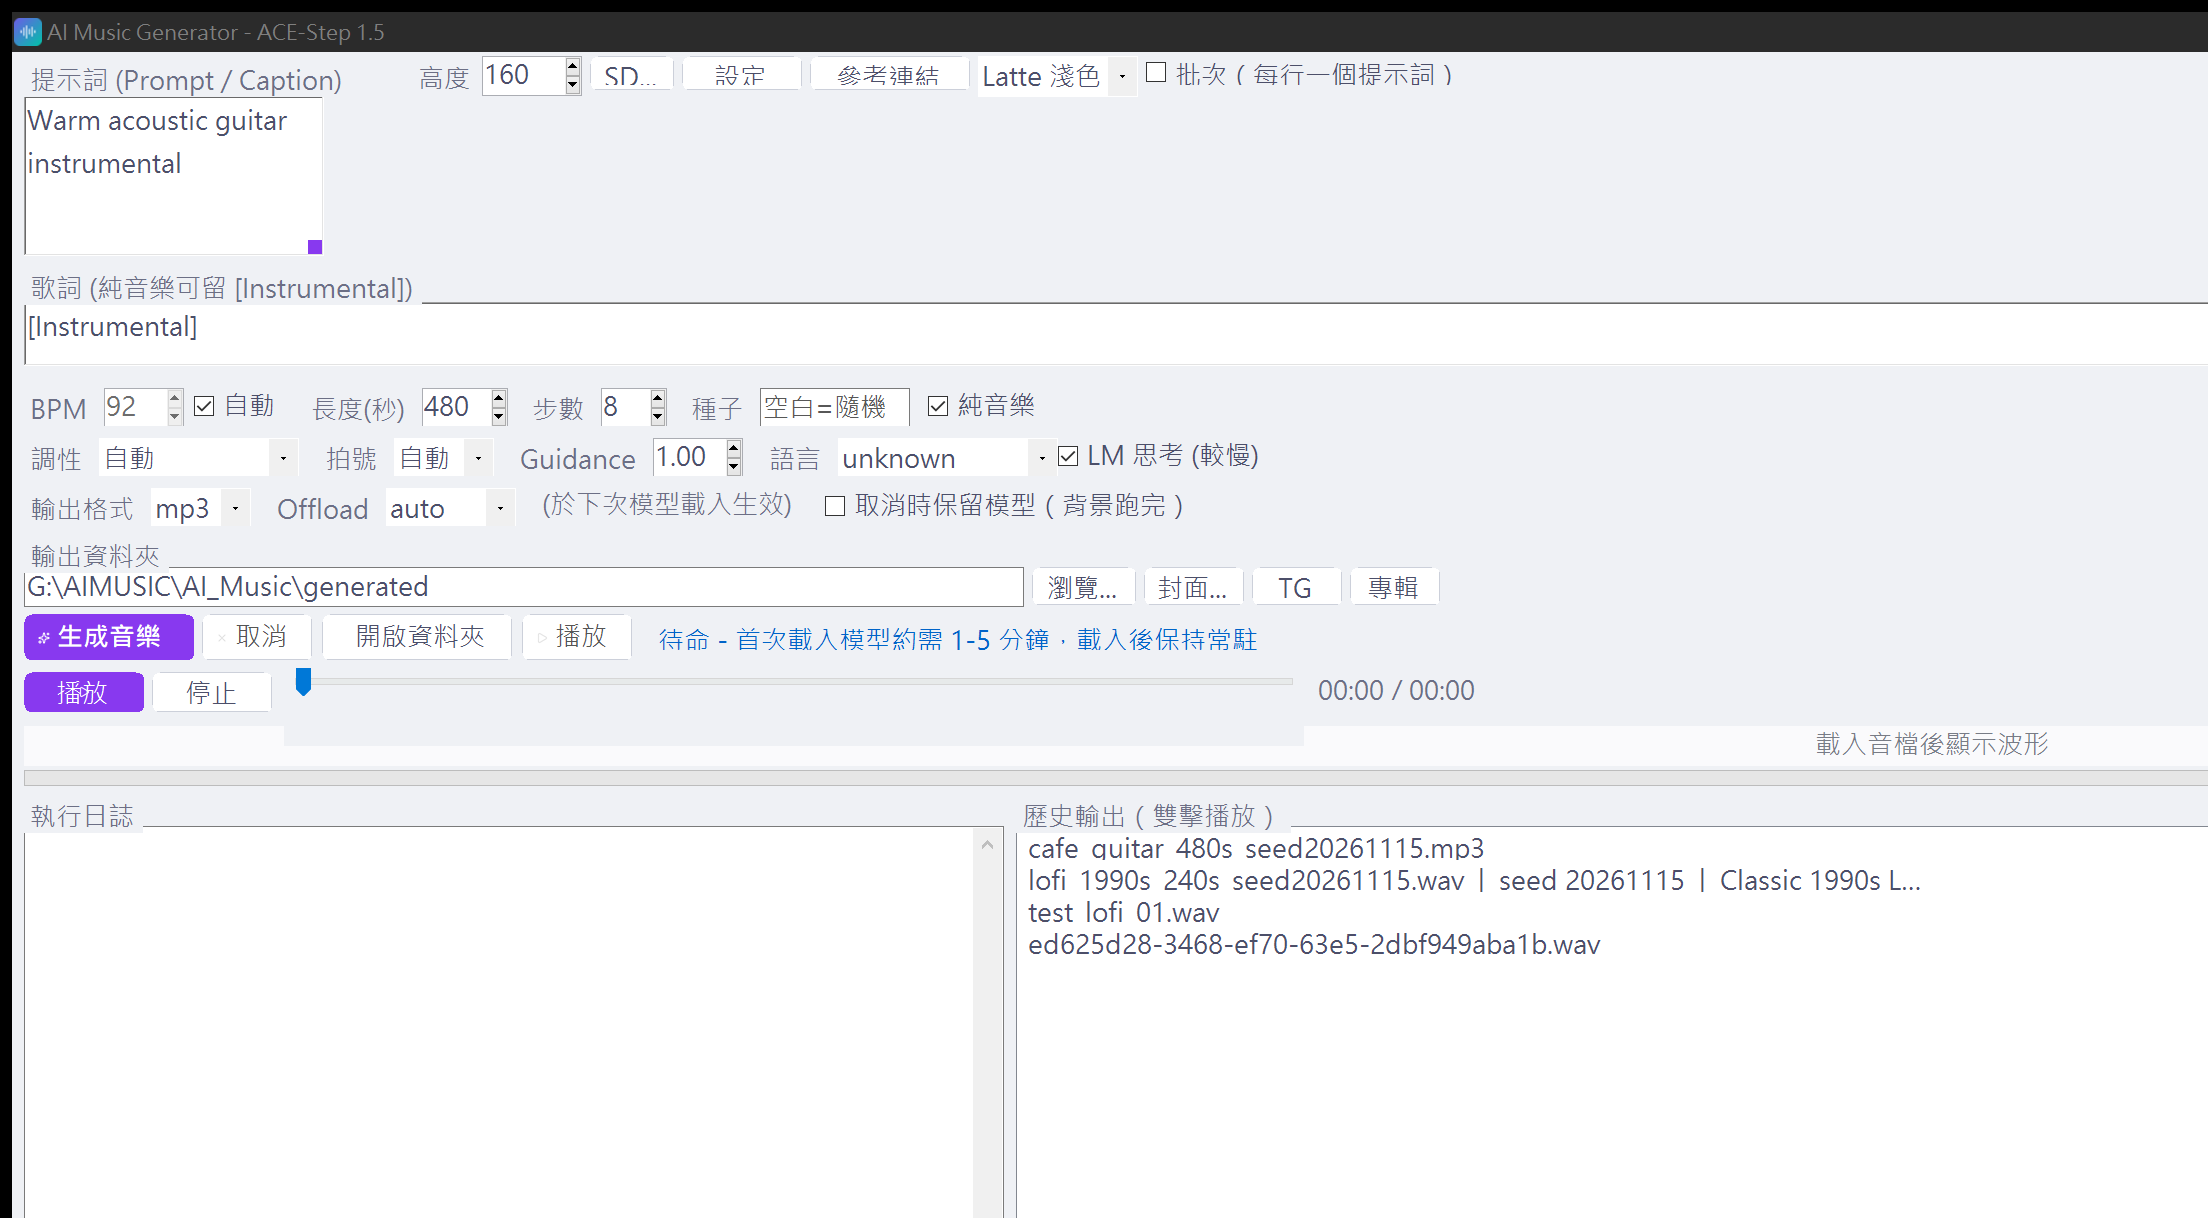
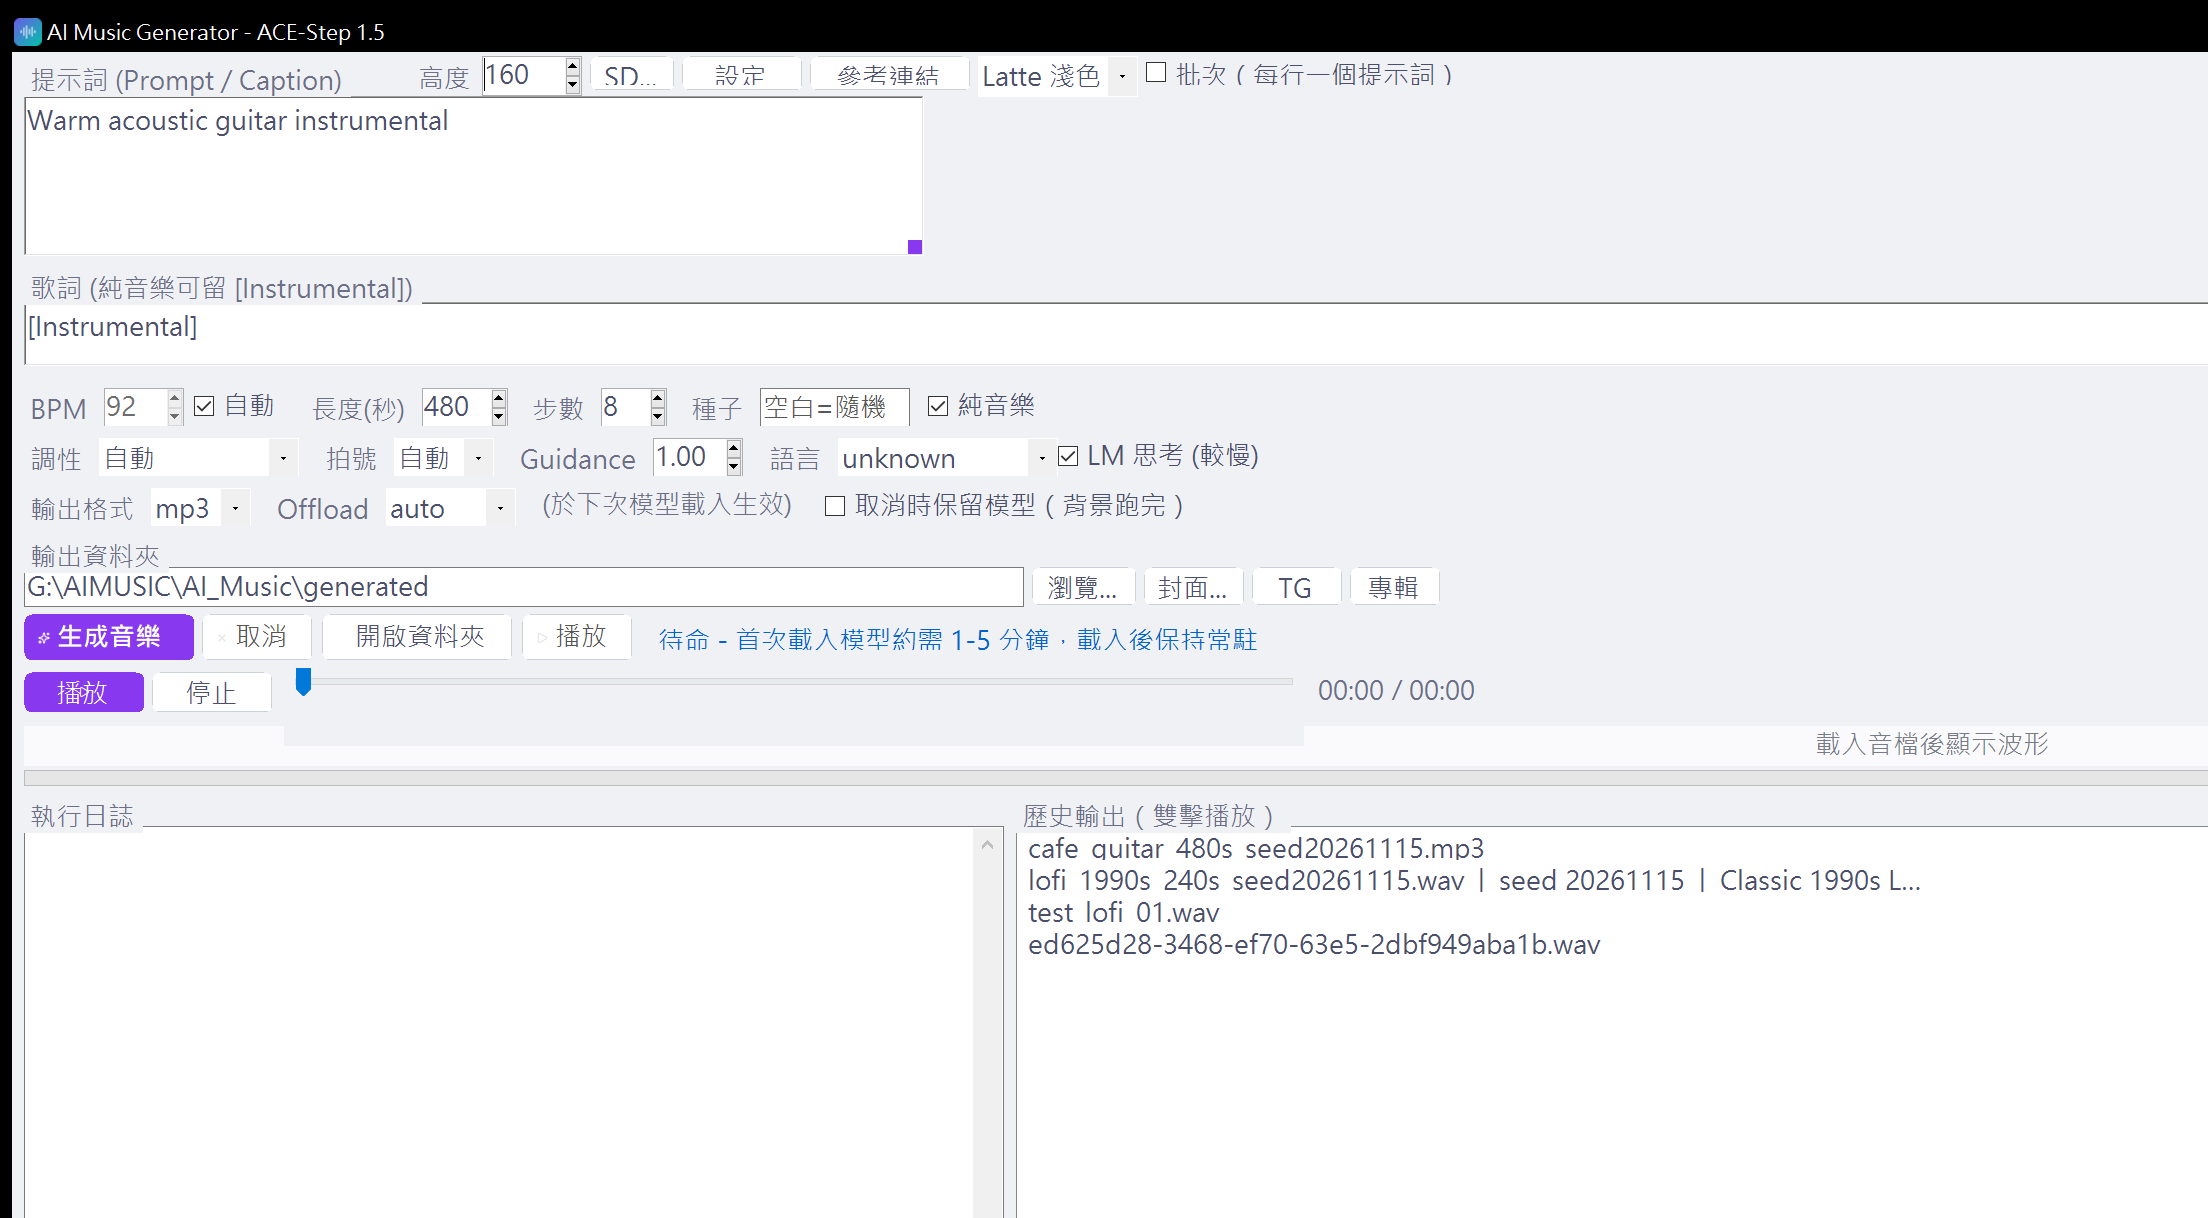
Polish dark UI, fix album cancel and test boundaries

Changed region(s): [[0.0, 0.0, 1.0, 0.0624], [0.125, 0.0936, 0.2188, 0.1248], [0.0, 0.1248, 0.0938, 0.156]]

diff --git a/AI_Music/app/src/MainForm.cs b/AI_Music/app/src/MainForm.cs
@@ -53,6 +53,7 @@ namespace AIMusicGenerator
         private readonly Button btnAlbum = new Button();
         private Process albumProcess;
         private bool albumStarting;
+        private bool albumCancelled;
         private Process telegramProcess;
         private bool sdEnabled = false;
         private string sdUrl = "http://127.0.0.1:7860";
@@ -164,8 +165,6 @@ namespace AIMusicGenerator
             txtCaption.Anchor = AnchorStyles.Top | AnchorStyles.Left;
             txtCaption.HandleCreated += delegate(object sender, EventArgs e)
             {
-                SendMessage(txtCaption.Handle, EM_SETCUEBANNER, (IntPtr)1,
-                    "描述風格、樂器、氛圍、節奏、人聲（純音樂可留歌詞 [Instrumental]）");
                 txtCaption.ScrollBars = RichTextBoxScrollBars.Vertical;
                 txtCaption.WordWrap = true;
             };
@@ -207,8 +206,8 @@ namespace AIMusicGenerator
             btnSd.SetBounds(578, 4, 84, 34);
             btnAdvanced.SetBounds(670, 4, 120, 34);
             btnLink.SetBounds(798, 4, 160, 34);
-            comboTheme.SetBounds(966, 4, 160, 32);
-            chkBatch.SetBounds(1134, 6, 340, 30);
+            comboTheme.SetBounds(966, 4, 180, 32);
+            chkBatch.SetBounds(1156, 6, 330, 30);
             btnLink.Anchor = AnchorStyles.Top | AnchorStyles.Left;
             comboTheme.Anchor = AnchorStyles.Top | AnchorStyles.Left;
             chkBatch.Anchor = AnchorStyles.Top | AnchorStyles.Left;
@@ -516,7 +515,10 @@ namespace AIMusicGenerator
         {
             ThemeManager.Apply(this);
             ThemeManager.StylePrimary(btnGenerate);
-            ThemeManager.StylePrimary(btnPlayPause);
+            ThemeManager.StyleSuccess(btnPlayPause);
+            ThemeManager.StyleSuccess(btnPlay);
+            ThemeManager.StyleDanger(btnStop);
+            ThemeManager.StyleDanger(btnCancel);
             lblStatus.ForeColor = ThemeManager.Dark
                 ? Color.FromArgb(148, 205, 255)
                 : Color.FromArgb(0, 100, 200);
@@ -581,110 +583,6 @@ namespace AIMusicGenerator
             resizeGrip.Left = txtCaption.Right - 16;
             resizeGrip.Top = txtCaption.Bottom - 16;
             resizeGrip.BringToFront();
-        }
-
-        private void ApplyThemeTo(Control control)
-        {
-            FlowLayoutPanel row = control as FlowLayoutPanel;
-            if (row != null)
-            {
-                row.BackColor = Color.Transparent;
-                foreach (Control child in row.Controls) ApplyThemeTo(child);
-                return;
-            }
-            Label label = control as Label;
-            if (label != null)
-            {
-                label.BackColor = Color.Transparent;
-                if (label != lblStatus) label.ForeColor = Color.FromArgb(188, 194, 208);
-                return;
-            }
-            RichTextBox richText = control as RichTextBox;
-            if (richText != null)
-            {
-                richText.BackColor = Color.FromArgb(30, 32, 40);
-                richText.ForeColor = Color.FromArgb(240, 242, 247);
-                richText.BorderStyle = BorderStyle.FixedSingle;
-                return;
-            }
-            TextBox textBox = control as TextBox;
-            if (textBox != null)
-            {
-                textBox.BackColor = Color.FromArgb(30, 32, 40);
-                textBox.ForeColor = Color.FromArgb(240, 242, 247);
-                textBox.BorderStyle = BorderStyle.FixedSingle;
-                return;
-            }
-            ListBox listBox = control as ListBox;
-            if (listBox != null)
-            {
-                listBox.BackColor = Color.FromArgb(22, 24, 31);
-                listBox.ForeColor = Color.FromArgb(226, 229, 238);
-                listBox.BorderStyle = BorderStyle.FixedSingle;
-                return;
-            }
-            ComboBox comboBox = control as ComboBox;
-            if (comboBox != null)
-            {
-                comboBox.BackColor = Color.FromArgb(30, 32, 40);
-                comboBox.ForeColor = Color.FromArgb(240, 242, 247);
-                comboBox.FlatStyle = FlatStyle.Flat;
-                return;
-            }
-            TrackBar trackBar = control as TrackBar;
-            if (trackBar != null)
-            {
-                trackBar.BackColor = Color.FromArgb(22, 24, 31);
-                trackBar.ForeColor = Color.FromArgb(188, 194, 208);
-                return;
-            }
-            WaveformPanel wave = control as WaveformPanel;
-            if (wave != null)
-            {
-                wave.BackColor = Color.FromArgb(22, 24, 31);
-                return;
-            }
-            NumericUpDown numeric = control as NumericUpDown;
-            if (numeric != null)
-            {
-                numeric.BackColor = Color.FromArgb(30, 32, 40);
-                numeric.ForeColor = Color.FromArgb(240, 242, 247);
-                numeric.BorderStyle = BorderStyle.FixedSingle;
-                return;
-            }
-            CheckBox checkBox = control as CheckBox;
-            if (checkBox != null)
-            {
-                checkBox.BackColor = Color.Transparent;
-                checkBox.ForeColor = Color.FromArgb(214, 219, 230);
-                return;
-            }
-            Button button = control as Button;
-            if (button != null)
-            {
-                StyleButton(button, button == btnGenerate);
-                return;
-            }
-        }
-
-        private static void StyleButton(Button button, bool primary)
-        {
-            button.FlatStyle = FlatStyle.Flat;
-            button.FlatAppearance.BorderSize = 1;
-            button.FlatAppearance.BorderColor = primary
-                ? Color.FromArgb(124, 92, 255)
-                : Color.FromArgb(58, 62, 75);
-            button.BackColor = primary
-                ? Color.FromArgb(108, 92, 231)
-                : Color.FromArgb(38, 41, 51);
-            button.ForeColor = Color.White;
-            button.Cursor = Cursors.Hand;
-            button.FlatAppearance.MouseOverBackColor = primary
-                ? Color.FromArgb(126, 110, 245)
-                : Color.FromArgb(48, 52, 64);
-            button.FlatAppearance.MouseDownBackColor = primary
-                ? Color.FromArgb(92, 78, 205)
-                : Color.FromArgb(32, 35, 44);
         }
 
         private static FlowLayoutPanel MakeRow(int y)
@@ -1117,17 +1015,29 @@ namespace AIMusicGenerator
             if (e.Index < 0) return;
             bool selected = (e.State & DrawItemState.Selected) != 0;
             Color background = selected
-                ? (ThemeManager.Dark ? Color.FromArgb(64, 56, 122) : Color.FromArgb(210, 228, 255))
-                : (ThemeManager.Dark ? Color.FromArgb(22, 24, 31) : Color.White);
+                ? (ThemeManager.Dark ? Color.FromArgb(49, 46, 129) : Color.FromArgb(224, 231, 255))
+                : (ThemeManager.Dark ? Color.FromArgb(26, 27, 35) : Color.White);
             using (SolidBrush brush = new SolidBrush(background))
             {
                 e.Graphics.FillRectangle(brush, e.Bounds);
+            }
+            if (selected)
+            {
+                using (SolidBrush indicator = new SolidBrush(Color.FromArgb(99, 102, 241)))
+                {
+                    e.Graphics.FillRectangle(indicator, e.Bounds.X, e.Bounds.Y, 3, e.Bounds.Height);
+                }
             }
             string text = lstHistory.Items[e.Index].ToString();
             using (SolidBrush foreground = new SolidBrush(ThemeManager.Text))
             {
                 e.Graphics.DrawString(text, e.Font, foreground,
-                    e.Bounds.X + 6, e.Bounds.Y + 4);
+                    e.Bounds.X + 8, e.Bounds.Y + 4);
+            }
+            using (Pen separator = new Pen(ThemeManager.Border))
+            {
+                e.Graphics.DrawLine(separator, e.Bounds.Left, e.Bounds.Bottom - 1,
+                    e.Bounds.Right, e.Bounds.Bottom - 1);
             }
         }
 
@@ -1301,11 +1211,13 @@ namespace AIMusicGenerator
                 Directory.CreateDirectory(Paths.TempDir);
                 File.WriteAllText(configPath, serializer.Serialize(album), new UTF8Encoding(false));
 
-                if (daemon != null)
+                albumCancelled = false;
+                Process oldDaemon = daemon;
+                if (oldDaemon != null)
                 {
                     albumStarting = true;
                     KillDaemon();
-                    Thread.Sleep(1800);
+                    try { oldDaemon.WaitForExit(1500); } catch (Exception) { }
                 }
 
                 try
@@ -1360,6 +1272,21 @@ namespace AIMusicGenerator
             Process finished = albumProcess;
             albumProcess = null;
             albumStarting = false;
+            if (albumCancelled)
+            {
+                albumCancelled = false;
+                if (finished != null)
+                {
+                    try { finished.WaitForExit(); finished.Dispose(); } catch (Exception) { }
+                }
+                SetBusy(false);
+                bar.Style = ProgressBarStyle.Blocks;
+                bar.Value = 0;
+                SetStatus("已取消專輯");
+                AppendLog("=== 專輯已取消 ===");
+                RefreshHistory();
+                return;
+            }
             int code = -1;
             string folder = txtOutDir.Text.Trim();
             if (finished != null)
@@ -1784,6 +1711,27 @@ namespace AIMusicGenerator
 
         private void OnCancel(object sender, EventArgs e)
         {
+            Process album = albumProcess;
+            if (album != null && !album.HasExited)
+            {
+                albumCancelled = true;
+                try
+                {
+                    Process.Start(new ProcessStartInfo("taskkill",
+                        "/PID " + album.Id + " /T /F")
+                    {
+                        UseShellExecute = false,
+                        CreateNoWindow = true
+                    });
+                    AppendLog("=== 已送出取消專輯指令 ===");
+                    SetStatus("正在取消專輯...");
+                }
+                catch (Exception ex)
+                {
+                    AppendLog("取消專輯失敗: " + ex.Message);
+                }
+                return;
+            }
             if (daemon == null) return;
             cancelRequested = true;
             restartRequested = false;
@@ -2012,7 +1960,6 @@ namespace AIMusicGenerator
             {
                 try
                 {
-                    finished.WaitForExit();
                     finished.WaitForExit();
                     code = finished.ExitCode;
                 }

diff --git a/AI_Music/app/src/ThemeManager.cs b/AI_Music/app/src/ThemeManager.cs
@@ -26,16 +26,16 @@ namespace AIMusicGenerator
             Dark = dark;
             if (dark)
             {
-                FormBack = Color.FromArgb(30, 30, 46);
-                PanelBack = Color.FromArgb(49, 50, 68);
-                InputBack = Color.FromArgb(24, 24, 37);
-                Text = Color.FromArgb(205, 214, 244);
-                SubText = Color.FromArgb(166, 173, 200);
-                Border = Color.FromArgb(69, 71, 90);
-                Accent = Color.FromArgb(203, 166, 247);
-                AccentHover = Color.FromArgb(180, 190, 254);
-                AccentDown = Color.FromArgb(136, 57, 239);
-                LogBack = Color.FromArgb(24, 24, 37);
+                FormBack = Color.FromArgb(18, 18, 22);
+                PanelBack = Color.FromArgb(26, 27, 35);
+                InputBack = Color.FromArgb(13, 14, 18);
+                Text = Color.FromArgb(243, 244, 246);
+                SubText = Color.FromArgb(156, 163, 175);
+                Border = Color.FromArgb(46, 49, 66);
+                Accent = Color.FromArgb(79, 70, 229);
+                AccentHover = Color.FromArgb(99, 102, 241);
+                AccentDown = Color.FromArgb(67, 56, 202);
+                LogBack = Color.FromArgb(13, 14, 18);
             }
             else
             {
@@ -135,7 +135,6 @@ namespace AIMusicGenerator
                 ? Color.FromArgb(42, 45, 56) : Color.FromArgb(235, 235, 240);
             button.FlatAppearance.MouseDownBackColor = Dark
                 ? Color.FromArgb(36, 38, 48) : Color.FromArgb(225, 225, 230);
-            RoundButton(button);
         }
 
         public static void StylePrimary(Button button)
@@ -148,29 +147,30 @@ namespace AIMusicGenerator
             button.Cursor = Cursors.Hand;
             button.FlatAppearance.MouseOverBackColor = AccentHover;
             button.FlatAppearance.MouseDownBackColor = AccentDown;
-            RoundButton(button);
         }
 
-        private static void RoundButton(Button button)
+        public static void StyleSuccess(Button button)
         {
-            if (button.Width <= 0 || button.Height <= 0) return;
-            int radius = 8;
-            Rectangle bounds = new Rectangle(0, 0, button.Width, button.Height);
-            using (System.Drawing.Drawing2D.GraphicsPath path = new System.Drawing.Drawing2D.GraphicsPath())
-            {
-                int d = radius * 2;
-                path.AddArc(bounds.X, bounds.Y, d, d, 180, 90);
-                path.AddArc(bounds.Right - d, bounds.Y, d, d, 270, 90);
-                path.AddArc(bounds.Right - d, bounds.Bottom - d, d, d, 0, 90);
-                path.AddArc(bounds.X, bounds.Bottom - d, d, d, 90, 90);
-                path.CloseFigure();
-                button.Region = new Region(path);
-            }
-            if (button.Tag == null)
-            {
-                button.Tag = "rounded";
-                button.SizeChanged += delegate { RoundButton(button); };
-            }
+            button.FlatStyle = FlatStyle.Flat;
+            button.FlatAppearance.BorderSize = 1;
+            button.FlatAppearance.BorderColor = Color.FromArgb(5, 150, 105);
+            button.BackColor = Color.FromArgb(5, 150, 105);
+            button.ForeColor = Color.White;
+            button.Cursor = Cursors.Hand;
+            button.FlatAppearance.MouseOverBackColor = Color.FromArgb(16, 185, 129);
+            button.FlatAppearance.MouseDownBackColor = Color.FromArgb(4, 120, 87);
+        }
+
+        public static void StyleDanger(Button button)
+        {
+            button.FlatStyle = FlatStyle.Flat;
+            button.FlatAppearance.BorderSize = 1;
+            button.FlatAppearance.BorderColor = Color.FromArgb(220, 38, 38);
+            button.BackColor = Color.FromArgb(220, 38, 38);
+            button.ForeColor = Color.White;
+            button.Cursor = Cursors.Hand;
+            button.FlatAppearance.MouseOverBackColor = Color.FromArgb(239, 68, 68);
+            button.FlatAppearance.MouseDownBackColor = Color.FromArgb(185, 28, 28);
         }
 
         public static void ApplyDialog(Form form)

diff --git a/AI_Music/tests/test_backend.py b/AI_Music/tests/test_backend.py
@@ -36,17 +36,17 @@ class NormalizeConfigTests(unittest.TestCase):
         return backend.load_config(path)
 
     def test_bpm_boundaries(self):
-        for value in (20, 300):
+        for value in (30, 300):
             self.assertEqual(self._config(bpm=value)["bpm"], value)
-        for value in (19, 301):
+        for value in (29, 301):
             with self.assertRaises(ValueError):
                 self._config(bpm=value)
         self.assertIsNone(self._config(bpm=None)["bpm"])
 
     def test_duration_boundaries(self):
-        for value in (5, 600):
+        for value in (10, 600):
             self.assertEqual(self._config(duration=value)["duration"], float(value))
-        for value in (4, 601):
+        for value in (9, 601):
             with self.assertRaises(ValueError):
                 self._config(duration=value)
 

diff --git a/AI_Music/scripts/fetch_file.py b/AI_Music/scripts/fetch_file.py
@@ -116,7 +116,6 @@ def main() -> int:
     part_dir = out_path.with_name(f"{out_path.name}.{size}.{chunk_mb}mb.parts")
     part_dir.mkdir(parents=True, exist_ok=True)
     print(f"[fetch] parts dir     : {part_dir}", flush=True)
-    print(f"[fetch] parts dir     : {part_dir}", flush=True)
     print(f"[fetch] {out_path.name}: {human(float(size))} <- {args.url}", flush=True)
 
     chunks: List[Tuple[int, int, Path]] = []

diff --git a/AI_Music/app/src/AutoRunner.cs b/AI_Music/app/src/AutoRunner.cs
@@ -35,7 +35,6 @@ namespace AIMusicGenerator
                     process.BeginOutputReadLine();
                     process.BeginErrorReadLine();
                     process.WaitForExit();
-                    process.WaitForExit();
                     exitCode = process.ExitCode;
                 }
                 writer.WriteLine("[auto] exit=" + exitCode);
